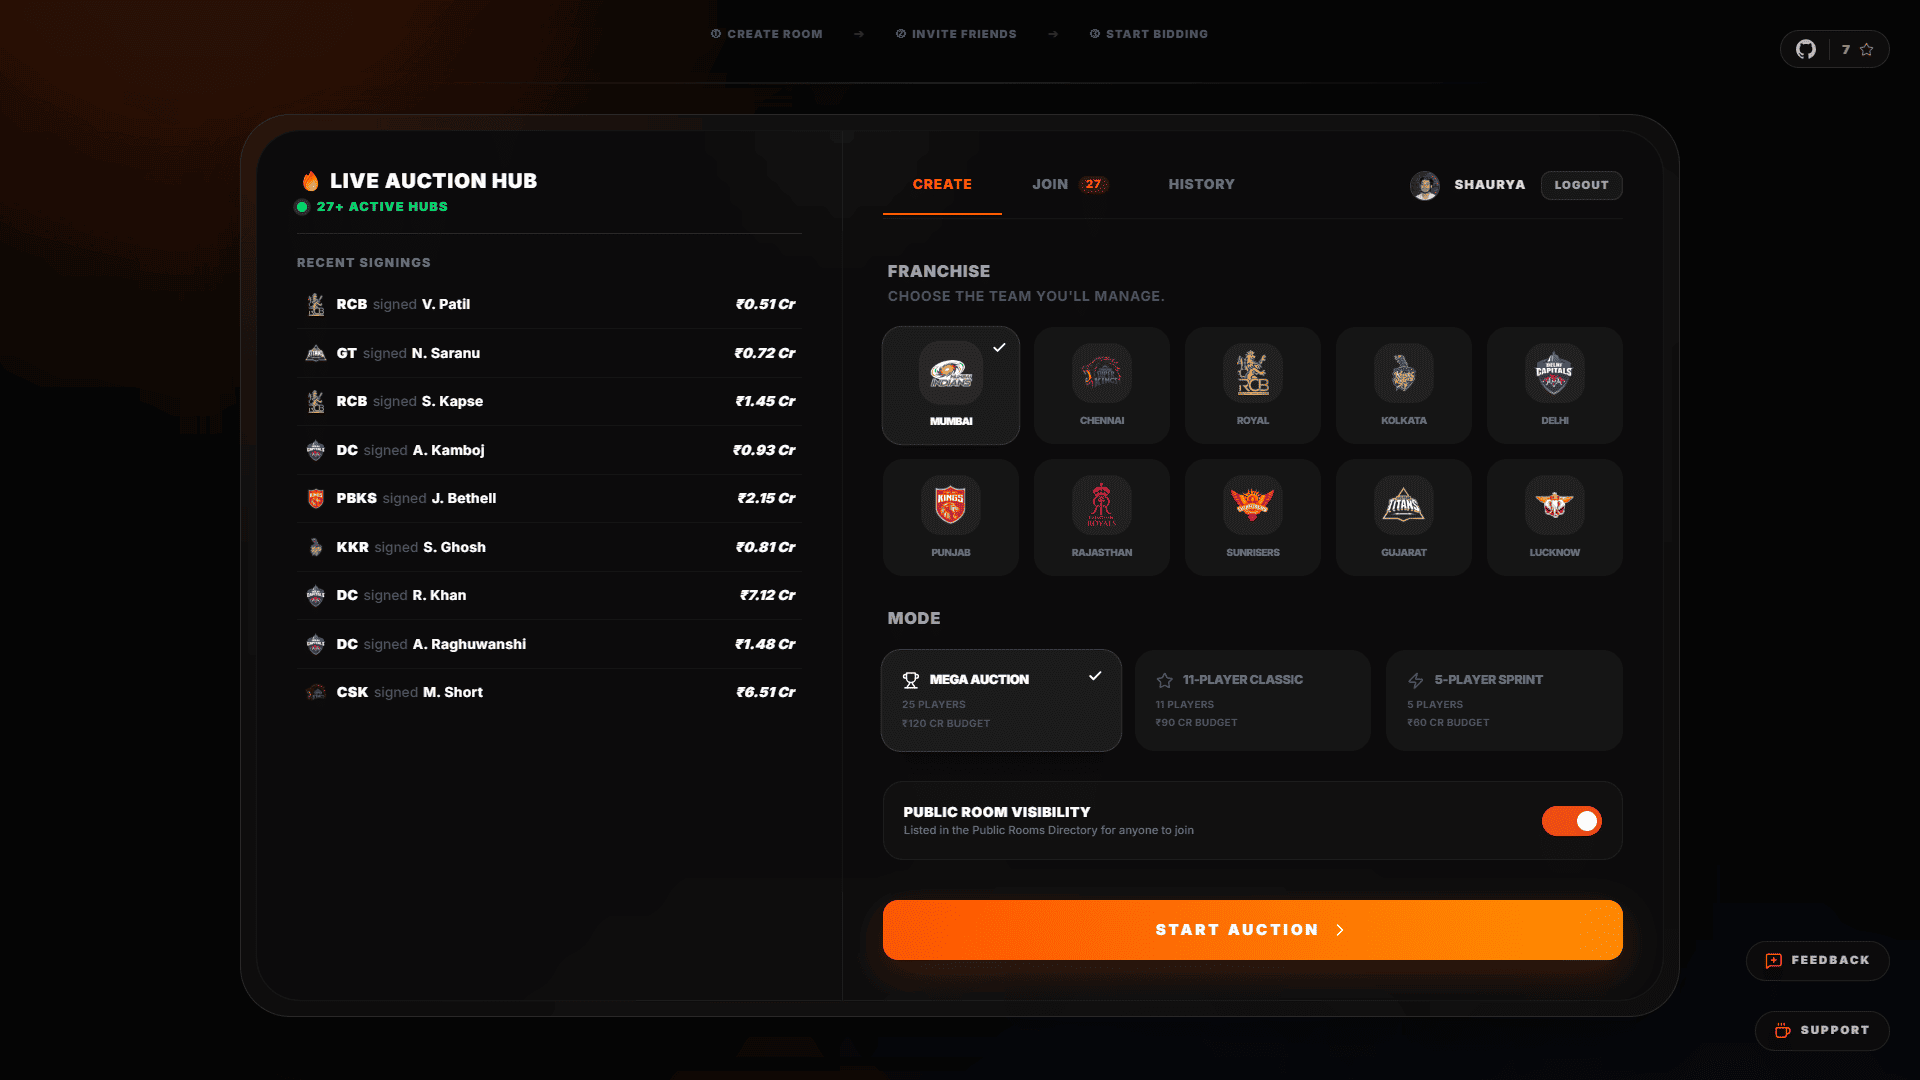
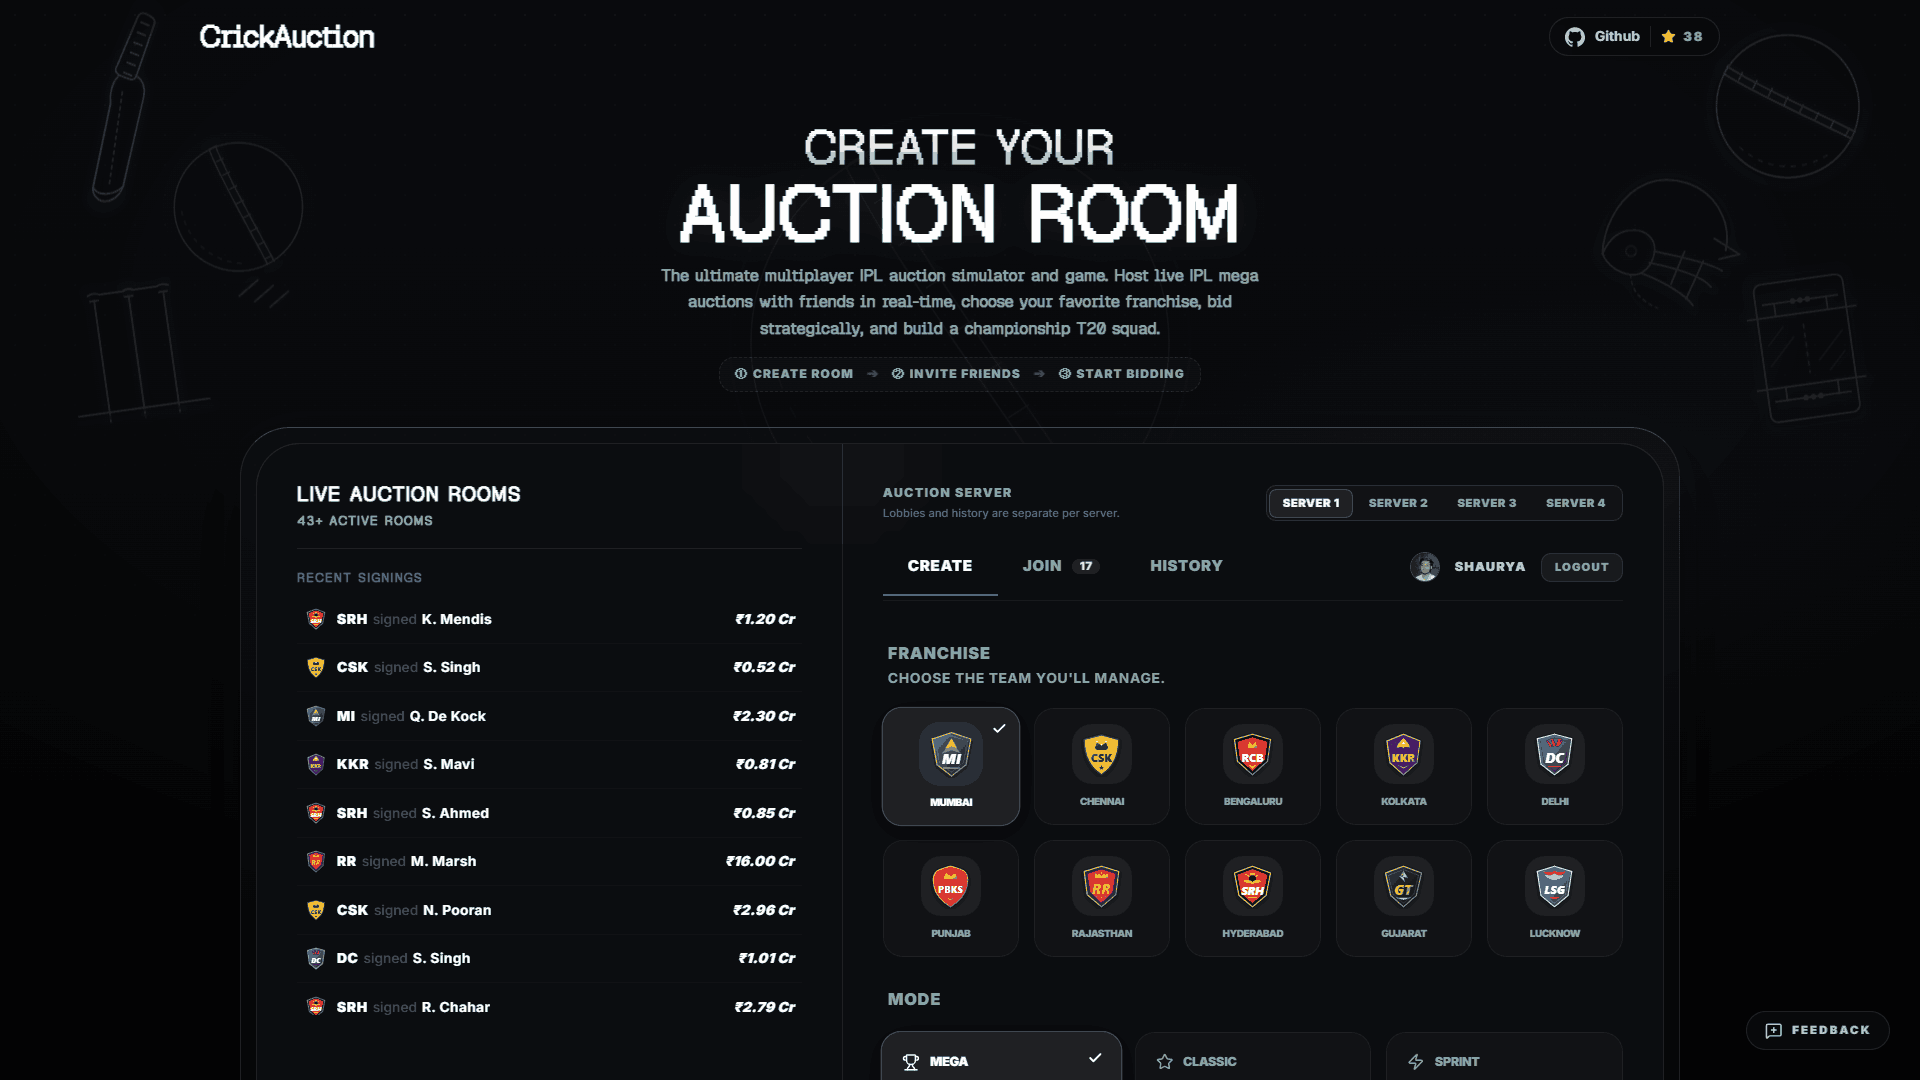
Rebrand auction simulator as CrickAuction
Update SEO and landing-page branding, add independent fan-made disclaimers, replace remote team logos with local SVG assets, and add concise team short names.

diff --git a/index.html b/index.html
@@ -3,8 +3,8 @@
   <head>
     <meta charset="UTF-8" />
     <link rel="icon" type="image/png" href="/favicon.png" />
-    <meta name="description" content="Play the ultimate multiplayer IPL Auction Simulator and Game online. Host live IPL Mega Auctions with friends, manage budgets, bid in real-time on players, and build your championship franchise!" />
-    <meta name="keywords" content="IPL Auction Simulator, IPL Auction Game, IPL Auction, IPL Mega Auction, IPL Fantasy, T20 Cricket Game, Cricket Simulation Game, Multiplayer Cricket Auction, IPL Auction Simulator Online" />
+    <meta name="description" content="CrickAuction is an independent, fan-made multiplayer T20 cricket auction simulator. Host tactical auctions with friends, manage squad budgets, bid in real-time, and build championship rosters." />
+    <meta name="keywords" content="CrickAuction, Cricket Auction Simulator, T20 Auction Game, Multiplayer Cricket Auction, Fan-Made Cricket Simulator, Cricket Strategy Game, T20 Squad Builder" />
     <meta name="author" content="Stadium Engine" />
     <meta name="google-adsense-account" content="ca-pub-2952599241278941" />
     <link rel="canonical" href="https://crickauction.in/" />
@@ -12,8 +12,8 @@
     <!-- Open Graph / Facebook -->
     <meta property="og:type" content="website" />
     <meta property="og:url" content="https://crickauction.in/" />
-    <meta property="og:title" content="IPL Auction Simulator & Game | Live IPL Mega Auction 2026" />
-    <meta property="og:description" content="Play the ultimate multiplayer IPL Auction Simulator online. Host live IPL Mega Auctions with friends, manage purse budgets, bid on top T20 players, and build championship squads!" />
+    <meta property="og:title" content="CrickAuction - Multiplayer T20 Auction Simulator (Fan-Made)" />
+    <meta property="og:description" content="An independent fan-made multiplayer T20 cricket auction simulator. Host tactical auctions with friends, manage squad budgets, and draft your dream T20 squad." />
     <meta property="og:image" content="https://crickauction.in/og-image.png" />
     <meta property="og:image:width" content="1200" />
     <meta property="og:image:height" content="630" />
@@ -21,8 +21,8 @@
     <!-- Twitter -->
     <meta property="twitter:card" content="summary_large_image" />
     <meta property="twitter:url" content="https://crickauction.in/" />
-    <meta property="twitter:title" content="IPL Auction Simulator & Game | Live IPL Mega Auction 2026" />
-    <meta property="twitter:description" content="Host live IPL mega auctions with friends in real-time. Choose your franchise, bid on top players, and build your championship T20 squad!" />
+    <meta property="twitter:title" content="CrickAuction - Multiplayer T20 Auction Simulator (Fan-Made)" />
+    <meta property="twitter:description" content="An independent fan-made multiplayer T20 cricket auction simulator. Host tactical auctions with friends, manage squad budgets, and draft your dream T20 squad." />
     <meta property="twitter:image" content="https://crickauction.in/og-image.png" />
 
     <!-- Mobile & Theme -->
@@ -42,9 +42,9 @@
     {
       "@context": "https://schema.org",
       "@type": "WebApplication",
-      "name": "IPL Mega Auction Simulator",
+      "name": "CrickAuction - T20 Cricket Auction Simulator",
       "url": "https://crickauction.in/",
-      "description": "A real-time multiplayer simulation game of the Indian Premier League (IPL) Mega Auction.",
+      "description": "An independent fan-made real-time multiplayer simulation game inspired by T20 cricket auctions.",
       "genre": "Simulation Game",
       "applicationCategory": "GameApplication",
       "browserRequirements": "Requires JavaScript",
@@ -62,7 +62,7 @@
     }
     </script>
 
-    <title>IPL Auction Simulator & Game | Live IPL Mega Auction 2026</title>
+    <title>CrickAuction - Multiplayer T20 Auction Simulator | Fan-Made Cricket Game</title>
     <link rel="preconnect" href="https://fonts.googleapis.com">
     <link rel="preconnect" href="https://fonts.gstatic.com" crossorigin>
     <link href="https://fonts.googleapis.com/css2?family=Inter:wght@400;500;600;700;800;900&family=Geist+Pixel&display=swap" rel="stylesheet">

diff --git a/src/data/teams.js b/src/data/teams.js
@@ -2,71 +2,81 @@ export const TEAMS = [
   { 
     id: 'MI', 
     name: 'Mumbai Indians', 
+    shortName: 'Mumbai',
     color: 'bg-blue-600', 
     textColor: 'text-white',
-    logo: 'https://documents.iplt20.com/ipl/MI/Logos/Logooutline/MIoutline.png'
+    logo: '/logos/MI.svg'
   },
   { 
     id: 'CSK', 
     name: 'Chennai Super Kings', 
+    shortName: 'Chennai',
     color: 'bg-yellow-400', 
     textColor: 'text-black',
-    logo: 'https://documents.iplt20.com/ipl/CSK/logos/Logooutline/CSKoutline.png'
+    logo: '/logos/CSK.svg'
   },
   { 
     id: 'RCB', 
     name: 'Royal Challengers Bengaluru', 
+    shortName: 'Bengaluru',
     color: 'bg-red-600', 
     textColor: 'text-white',
-    logo: 'https://upload.wikimedia.org/wikipedia/en/thumb/d/d4/Royal_Challengers_Bengaluru_Logo.svg/960px-Royal_Challengers_Bengaluru_Logo.svg.png'
+    logo: '/logos/RCB.svg'
   },
   { 
     id: 'KKR', 
     name: 'Kolkata Knight Riders', 
+    shortName: 'Kolkata',
     color: 'bg-purple-800', 
     textColor: 'text-white',
-    logo: 'https://documents.iplt20.com/ipl/KKR/Logos/Logooutline/KKRoutline.png'
+    logo: '/logos/KKR.svg'
   },
   { 
     id: 'DC', 
     name: 'Delhi Capitals', 
+    shortName: 'Delhi',
     color: 'bg-blue-500', 
     textColor: 'text-white',
-    logo: 'https://upload.wikimedia.org/wikipedia/en/thumb/2/2f/Delhi_Capitals.svg/960px-Delhi_Capitals.svg.png'
+    logo: '/logos/DC.svg'
   },
   { 
     id: 'PBKS', 
     name: 'Punjab Kings', 
+    shortName: 'Punjab',
     color: 'bg-red-500', 
     textColor: 'text-white',
-    logo: 'https://documents.iplt20.com/ipl/PBKS/Logos/Logooutline/PBKSoutline.png'
+    logo: '/logos/PBKS.svg'
   },
   { 
     id: 'RR', 
     name: 'Rajasthan Royals', 
+    shortName: 'Rajasthan',
     color: 'bg-pink-600', 
     textColor: 'text-white',
-    logo: 'https://static.vecteezy.com/system/resources/previews/075/244/952/non_2x/rajasthan-royals-logo-rr-logo-icon-on-transparent-background-free-png.png'
+    logo: '/logos/RR.svg'
   },
   { 
     id: 'SRH', 
     name: 'Sunrisers Hyderabad', 
+    shortName: 'Hyderabad',
     color: 'bg-orange-500', 
     textColor: 'text-white',
-    logo: 'https://upload.wikimedia.org/wikipedia/en/thumb/5/51/Sunrisers_Hyderabad_Logo.svg/1280px-Sunrisers_Hyderabad_Logo.svg.png'
+    logo: '/logos/SRH.svg'
   },
   { 
     id: 'GT', 
     name: 'Gujarat Titans', 
+    shortName: 'Gujarat',
     color: 'bg-slate-700', 
     textColor: 'text-white',
-    logo: 'https://documents.iplt20.com/ipl/GT/Logos/Logooutline/GToutline.png'
+    logo: '/logos/GT.svg'
   },
   { 
     id: 'LSG', 
     name: 'Lucknow Super Giants', 
+    shortName: 'Lucknow',
     color: 'bg-pink-800', 
     textColor: 'text-white',
-    logo: 'https://upload.wikimedia.org/wikipedia/en/thumb/3/34/Lucknow_Super_Giants_Logo.svg/1920px-Lucknow_Super_Giants_Logo.svg.png'
+    logo: '/logos/LSG.svg'
   },
 ];

diff --git a/src/pages/LandingPage.jsx b/src/pages/LandingPage.jsx
@@ -137,8 +137,8 @@ const mergeHistorySessions = (localSessions, remoteSessions) => {
 
 const LandingPage = () => {
   useDocumentTitle(
-    "IPL Auction Simulator & Game | Live IPL Mega Auction 2026",
-    "Play the ultimate multiplayer IPL Auction Simulator online. Host live IPL Mega Auctions with friends, manage purse budgets, bid on top T20 players, and build championship squads!",
+    "CrickAuction - Multiplayer T20 Auction Simulator | Fan-Made Cricket Game",
+    "An independent, fan-made multiplayer T20 cricket auction simulator. Host tactical auctions with friends, manage squad budgets, and draft your dream T20 squad.",
   );
 
   const [selectedTeam, setSelectedTeam] = useState("MI");
@@ -691,7 +691,7 @@ const LandingPage = () => {
 
         <div className="text-center mb-3 sm:mb-4 z-10 relative max-w-2xl px-2 sm:px-4 mt-1 sm:mt-2">
           <h1 className="sr-only">
-            IPL Auction Simulator & Game - Live IPL Mega Auction 2026
+            CrickAuction - Fan-Made Multiplayer T20 Cricket Auction Simulator
           </h1>
 
           <div className="text-[clamp(1.25rem,2.8vw,2.35rem)] font-pixel leading-none text-balance bg-clip-text text-transparent bg-gradient-to-b from-white via-white/90 to-white/60">
@@ -856,7 +856,7 @@ const LandingPage = () => {
       {/* Hero */}
       <div className="text-center mb-3 sm:mb-4 z-10 relative max-w-2xl px-2 sm:px-4 mt-1 sm:mt-2">
         <h1 className="sr-only">
-          IPL Auction Simulator & Game - Live IPL Mega Auction 2026
+          CrickAuction - Fan-Made Multiplayer T20 Cricket Auction Simulator
         </h1>
 
         <div className="text-[clamp(1.25rem,2.8vw,2.35rem)] font-pixel leading-none text-balance bg-clip-text text-transparent bg-gradient-to-b from-white via-white/90 to-white/60">
@@ -1033,7 +1033,7 @@ const LandingPage = () => {
                         <span
                           className={`text-[7px] sm:text-[8px] font-black uppercase text-center tracking-tighter truncate w-full ${selectedTeam === t.id ? "text-white" : "text-gray-400"}`}
                         >
-                          {t.name.split(" ").slice(0, 1)}
+                          {t.shortName || t.name.split(" ")[0]}
                         </span>
                       </button>
                     ))}

diff --git a/src/components/watermelon-ui/footer-20.jsx b/src/components/watermelon-ui/footer-20.jsx
@@ -224,6 +224,16 @@ export default function Footer20() {
           </div>
         </div>
 
+        {/* Non-Affiliation Legal Disclaimer */}
+        <motion.div
+          {...itemProps}
+          className="pt-6 pb-8 border-t border-white/[0.06] text-xs text-gray-500 leading-relaxed max-w-4xl"
+        >
+          <p>
+            <strong className="text-gray-400 font-medium">Disclaimer:</strong> CrickAuction is an independent, fan-made tactical cricket simulation game developed strictly for educational and entertainment purposes. It is not affiliated with, endorsed by, sponsored by, or associated with the Board of Control for Cricket in India (BCCI), the Indian Premier League (IPL), or any participating franchise. All team names, logos, player names, and associated trademarks remain the sole intellectual property of their respective rights holders.
+          </p>
+        </motion.div>
+
         {/* Giant Watermark Text SVG */}
         <motion.div
           {...textProps}
